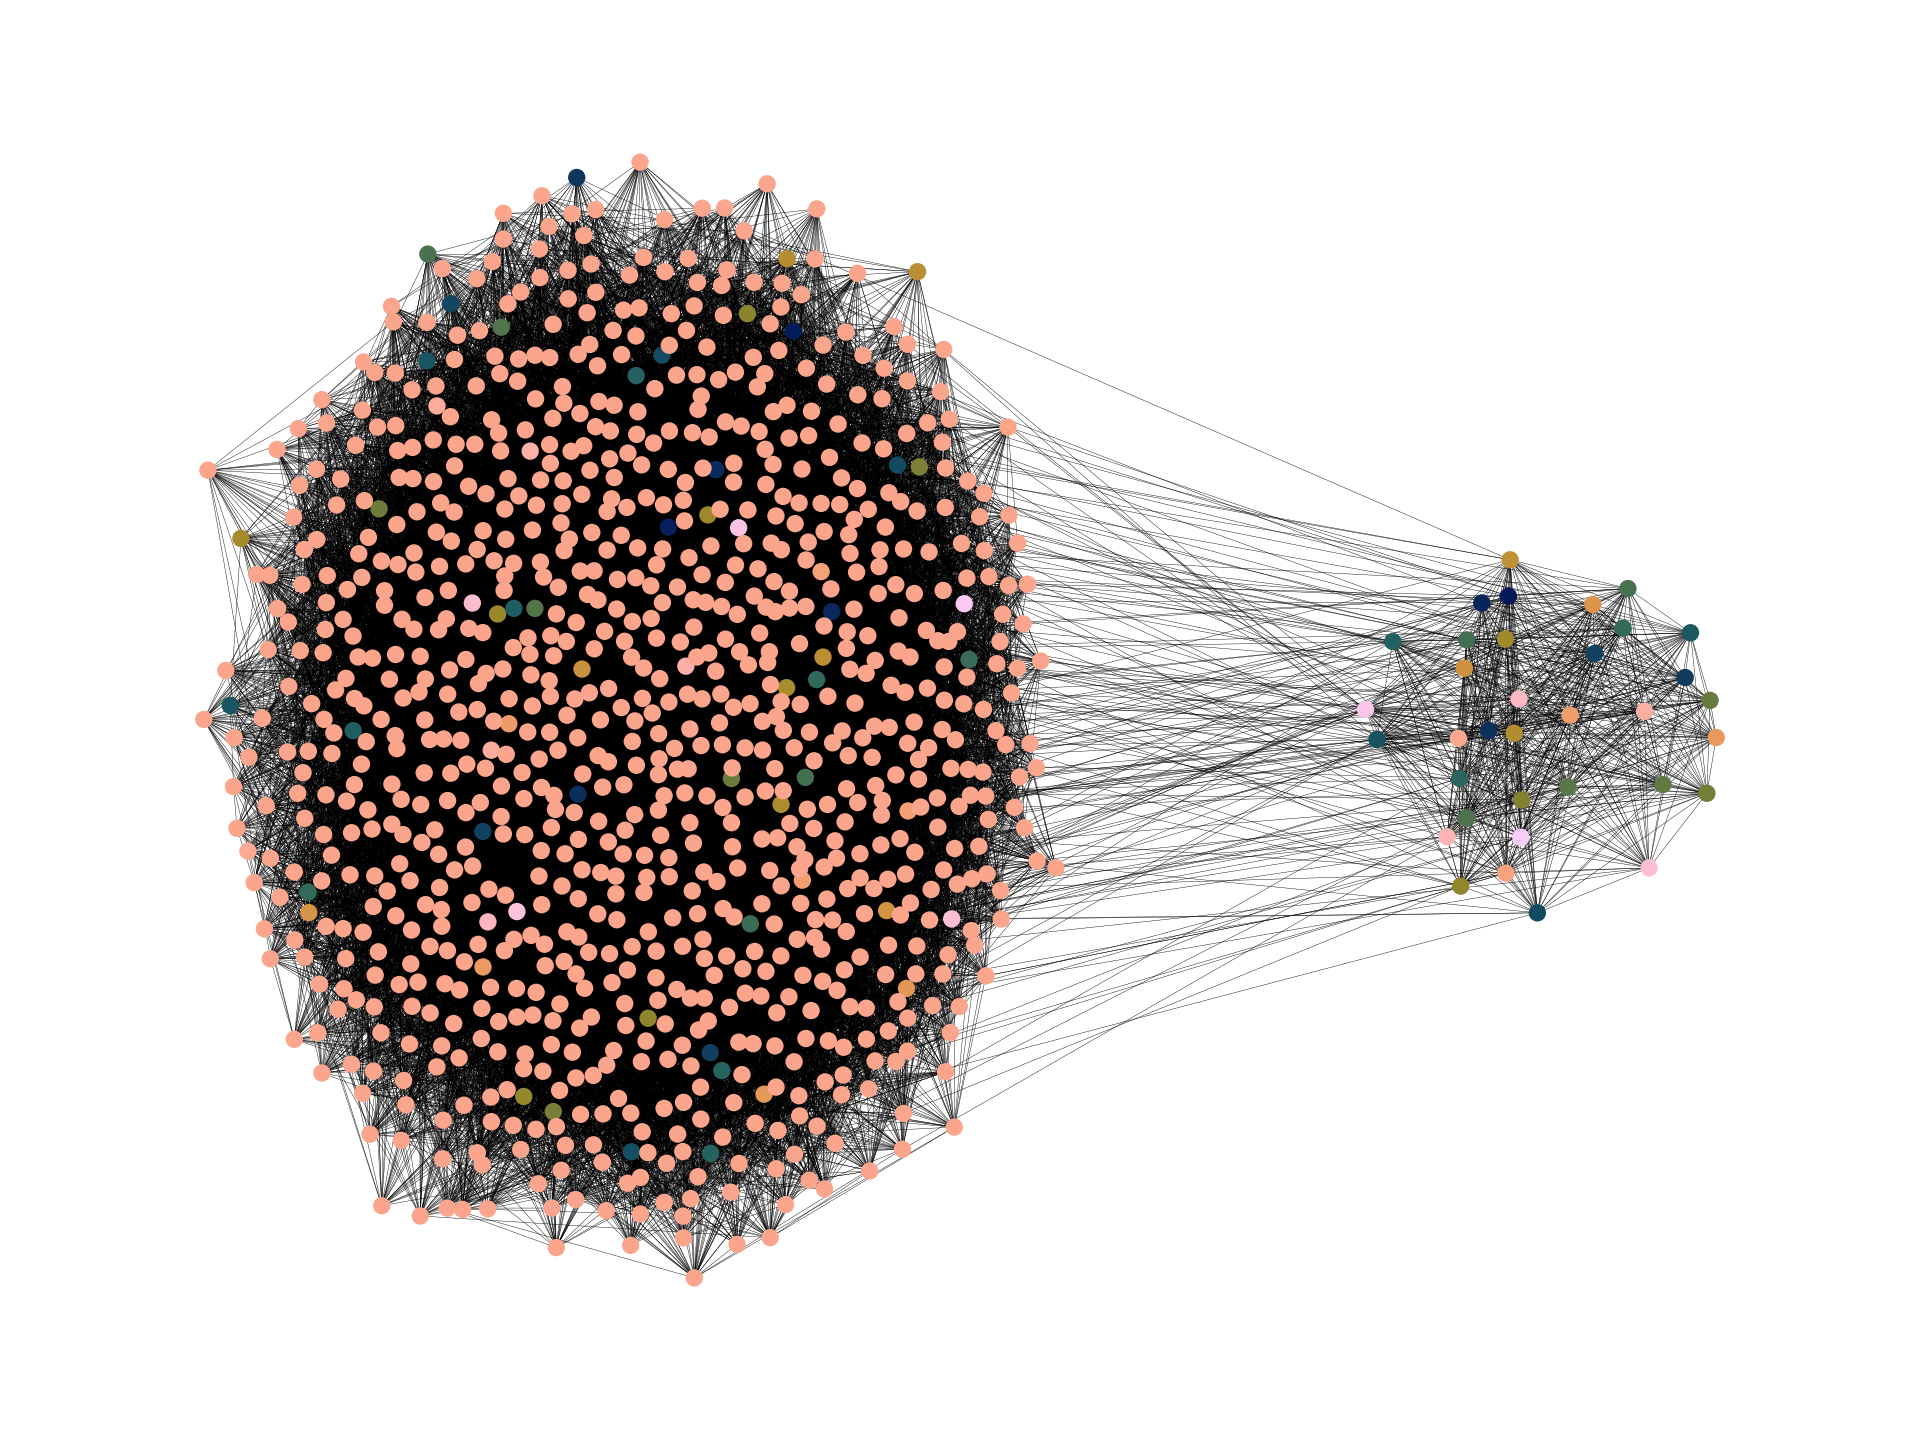
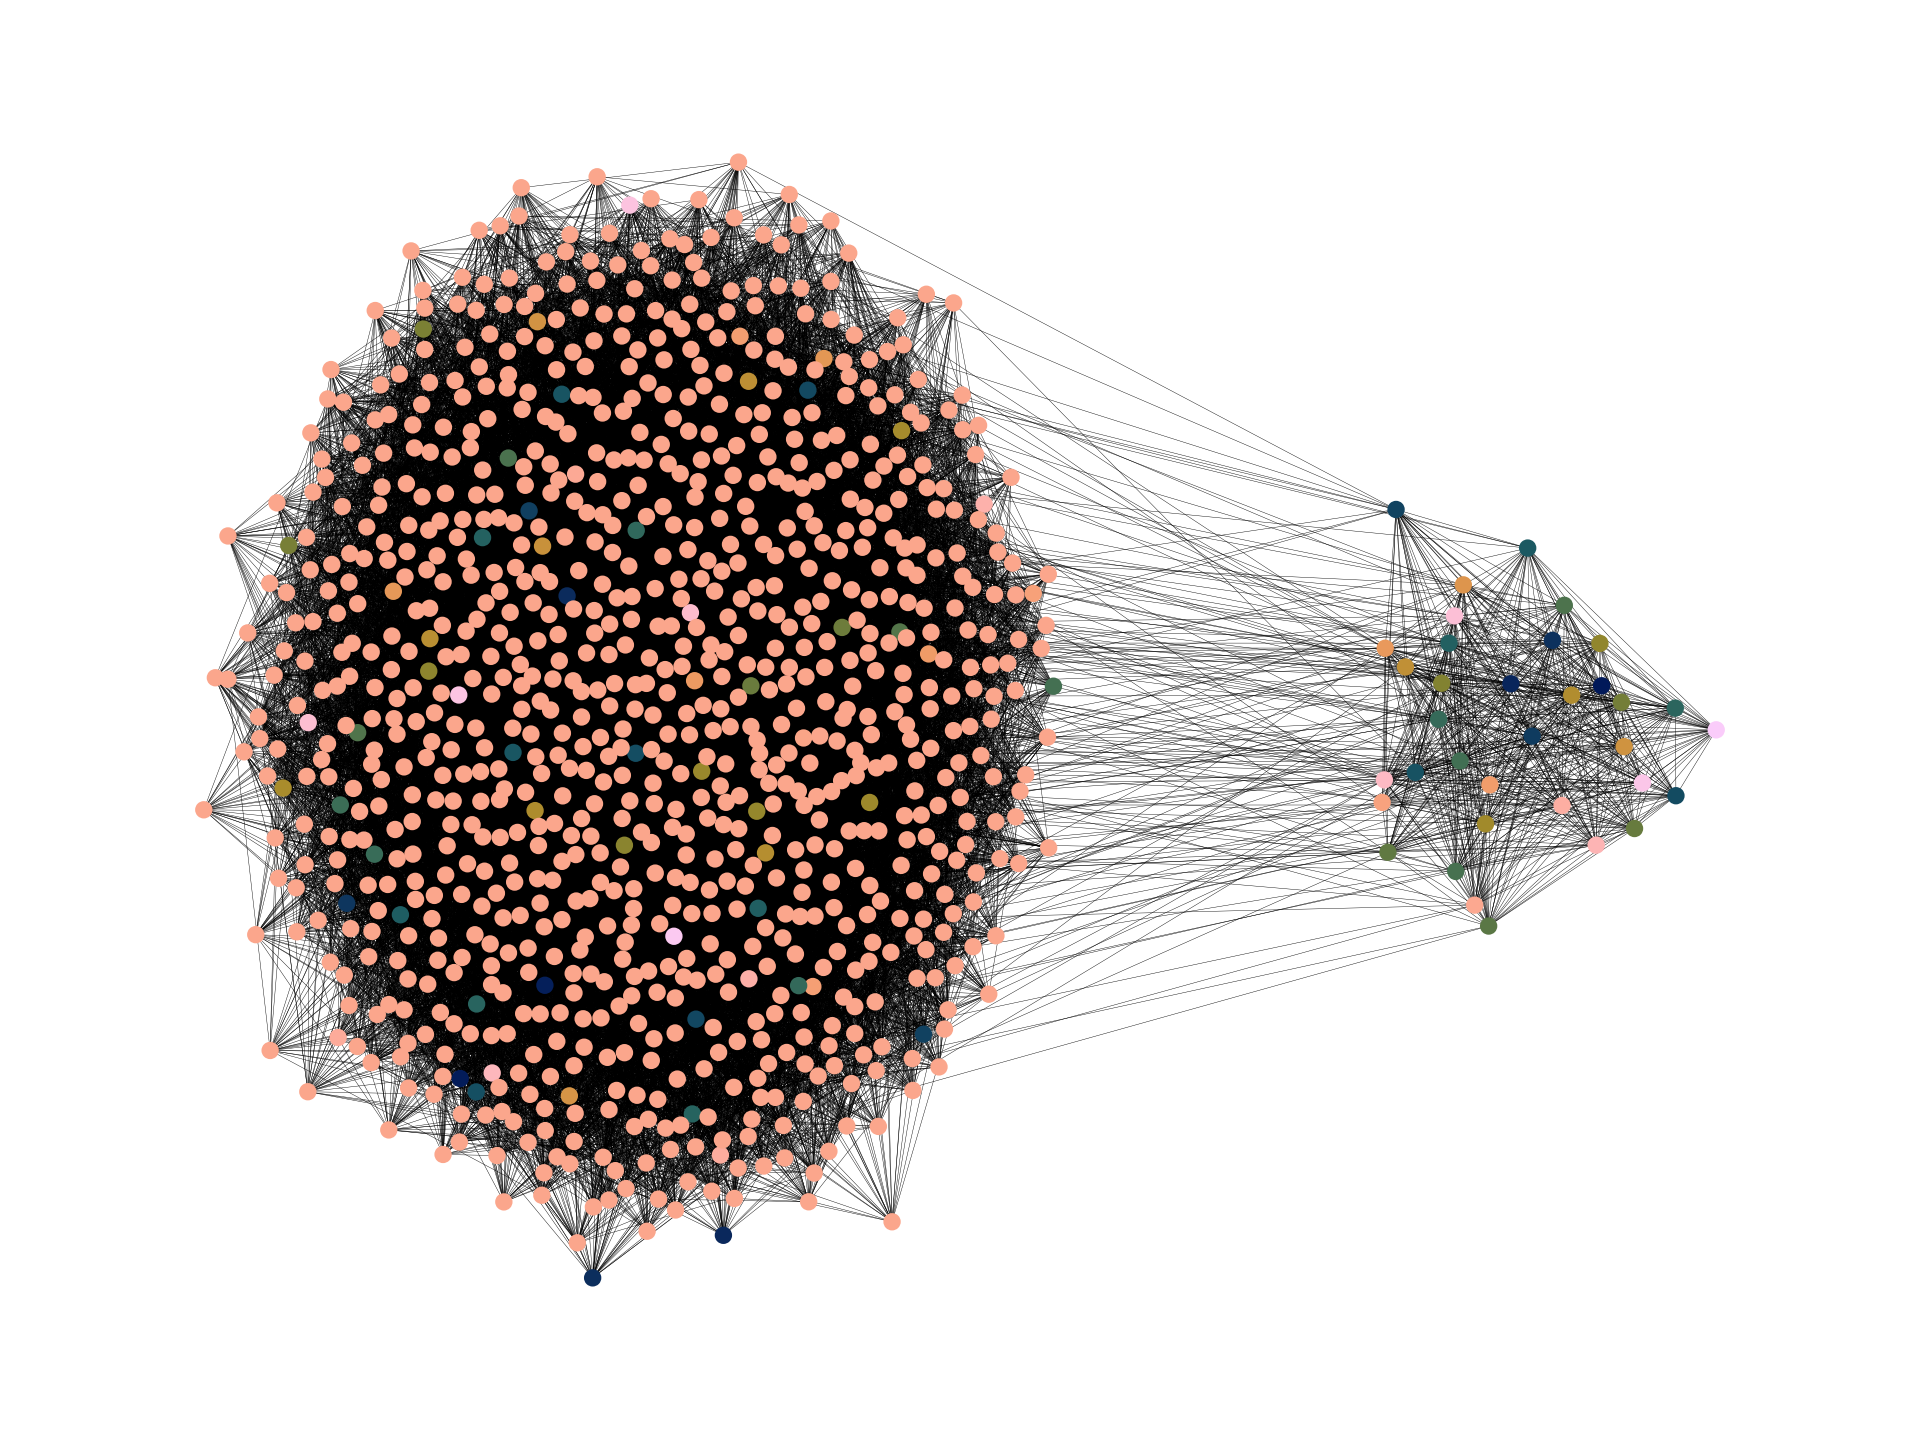
new graph

Changed region(s): [[0.0938, 0.0938, 0.9062, 0.9062]]

diff --git a/code/compare_graphs_d2d.py b/code/compare_graphs_d2d.py
@@ -1,0 +1,241 @@
+# Project:  CensorshipDissent
+# Filename: compare_graphs_d2d.py
+# Authors:  Joshua J. Daymude (jdaymude@asu.edu).
+
+"""
+This script uses the same engine (rule="d2d"), only changing the graph generation method (SBM/WS/BA), and repeatedly runs the simulation multiple times for different N_A fractions. It takes the mean and standard deviation of the final mean δ.
+"""
+
+import os
+import numpy as np
+import matplotlib.pyplot as plt
+import networkx as nx
+
+from engine import engine
+
+
+# ---------------------------
+# Graph generators (SBM / WS / BA)
+# ---------------------------
+def make_graph(kind: str, n: int, seed: int,
+               N_A: int,
+               ws_k: int = 6, ws_p: float = 0.10,
+               ba_m: int = 2,
+               sbm_P=None):
+    """
+    Create a connected-ish graph with node labels 0..N-1 to match engine's indexing style.
+    """
+    kind = kind.upper()
+
+    if kind == "WS":
+        # connected version avoids isolated nodes (d2d uses mean over neighbors)
+        return nx.connected_watts_strogatz_graph(n=n, k=ws_k, p=ws_p, seed=seed)
+
+    if kind == "BA":
+        return nx.barabasi_albert_graph(n=n, m=ba_m, seed=seed)
+
+    if kind == "SBM":
+        # Two communities aligned with "active vs non-active" just for community structure
+        sizes = [N_A, n - N_A]
+        P = sbm_P if sbm_P is not None else [[0.15, 0.01],
+                                             [0.01, 0.05]]
+        G = nx.stochastic_block_model(sizes, P, seed=seed, directed=False, selfloops=False, sparse=True)
+
+        # SBM may be disconnected -> take largest connected component
+        if not nx.is_connected(G):
+            largest_cc = max(nx.connected_components(G), key=len)
+            G = G.subgraph(largest_cc).copy()
+
+        # relabel to 0..N-1 to keep indexing safe in engine (acts[G[i]] style)
+        G = nx.convert_node_labels_to_integers(G, first_label=0)
+        return G
+
+    raise ValueError(f"Unknown kind: {kind}")
+
+
+# ---------------------------
+# Initialization (same idea as solidarity.py)
+# ---------------------------
+def init_population(rng: np.random.Generator, N: int, N_A: int):
+    """
+    Create deltas/betas with first N_A "active" having higher delta/beta.
+    """
+    deltas = np.append(
+        np.clip(rng.normal(0.9, 0.1, N_A), 0, 1),
+        np.clip(rng.normal(0.2, 0.1, N - N_A), 0, 1),
+    )
+    betas = np.append(np.repeat(2.0, N_A), np.repeat(0.75, N - N_A))
+    return deltas, betas
+
+
+# ---------------------------
+# One experiment: final mean delta for given params
+# ---------------------------
+def final_mean_delta(kind: str,
+                     n: int,
+                     N_A_frac: float,
+                     R: int = 50,
+                     runs: int = 10,
+                     base_seed: int = 0,
+                     # fixed engine params:
+                     rule: str = "d2d",
+                     w: float = 0.5,
+                     nu: float = 0.5,
+                     pi: str = "uniform",
+                     tau: float = 0.1, sigma_tau: float = 0.0,
+                     psi: float = 1.0, sigma_psi: float = 0.0,
+                     # graph params:
+                     ws_k: int = 6, ws_p: float = 0.10,
+                     ba_m: int = 2,
+                     sbm_P=None):
+    finals = []
+
+    for r in range(runs):
+        seed = base_seed + r
+        rng = np.random.default_rng(seed)
+
+        # build graph
+        N_A = max(1, int(N_A_frac * n))
+        G = make_graph(kind, n=n, seed=seed, N_A=N_A,
+                       ws_k=ws_k, ws_p=ws_p,
+                       ba_m=ba_m, sbm_P=sbm_P)
+
+        # graph size might change if we took largest CC
+        N = G.number_of_nodes()
+        N_A = max(1, int(N_A_frac * N))
+
+        # init conditions
+        deltas0, betas0 = init_population(rng, N, N_A)
+
+        delta_hist, beta_hist, act_hist = engine(
+            G, N=N, R=R, rule=rule, w=w,
+            deltas=deltas0, betas=betas0,
+            nu=nu, pi=pi, tau=tau, sigma_tau=sigma_tau, psi=psi, sigma_psi=sigma_psi,
+            rng=rng
+        )
+
+        # final mean delta (this is what your Figure 2 needs)
+        finals.append(float(delta_hist.mean(axis=0)[-1]))
+
+    return float(np.mean(finals)), float(np.std(finals))
+
+
+# ---------------------------
+# Sweep helpers
+# ---------------------------
+def sweep_NA_three_models(outdir="figs_final",
+                          n=500, R=50, runs=10,
+                          NA_fracs=None,
+                          # fixed model params:
+                          ws_k=6, ws_p=0.10,
+                          ba_m=2,
+                          sbm_P=None):
+    os.makedirs(outdir, exist_ok=True)
+    if NA_fracs is None:
+        NA_fracs = np.linspace(0.01, 0.15, 10)
+
+    models = ["SBM", "WS", "BA"]
+    results = {m: {"mean": [], "std": []} for m in models}
+
+    for frac in NA_fracs:
+        for m in models:
+            mean, std = final_mean_delta(
+                m, n=n, N_A_frac=float(frac),
+                R=R, runs=runs,
+                ws_k=ws_k, ws_p=ws_p,
+                ba_m=ba_m,
+                sbm_P=sbm_P
+            )
+            results[m]["mean"].append(mean)
+            results[m]["std"].append(std)
+
+    # plot (Figure 2A)
+    plt.figure(dpi=200)
+    for m in models:
+        y = np.array(results[m]["mean"])
+        yerr = np.array(results[m]["std"])
+        plt.errorbar(NA_fracs, y, yerr=yerr, marker="o", capsize=3, label=m)
+
+    plt.xlabel("N_A fraction")
+    plt.ylabel("Final mean delta (d2d)")
+    plt.title("Final mean delta vs N_A (SBM vs WS vs BA)")
+    plt.grid(True)
+    plt.legend()
+    outpath = os.path.join(outdir, "final_vs_NA_three_models.png")
+    plt.savefig(outpath, bbox_inches="tight")
+    plt.close()
+
+    print("Saved:", outpath)
+    return results
+
+
+# Optional: WS p sweep (Figure 2B)
+def sweep_WS_p(outdir="figs_final",
+               n=500, R=50, runs=10,
+               NA_frac=0.035,
+               ws_k=6,
+               ps=None):
+    os.makedirs(outdir, exist_ok=True)
+    if ps is None:
+        ps = [0.0, 0.01, 0.05, 0.1, 0.5, 1.0]
+
+    means, stds = [], []
+    for p in ps:
+        mean, std = final_mean_delta("WS", n=n, N_A_frac=NA_frac, R=R, runs=runs, ws_k=ws_k, ws_p=float(p))
+        means.append(mean); stds.append(std)
+
+    plt.figure(dpi=200)
+    plt.errorbar(ps, means, yerr=stds, marker="o", capsize=3)
+    plt.xlabel("p (rewiring probability)")
+    plt.ylabel("Final mean delta (d2d)")
+    plt.title(f"WS: Final mean delta vs p (k={ws_k}, N_A={NA_frac})")
+    plt.grid(True)
+    outpath = os.path.join(outdir, "final_vs_p_WS.png")
+    plt.savefig(outpath, bbox_inches="tight")
+    plt.close()
+
+    print("Saved:", outpath)
+
+
+# Optional: BA m sweep (Figure 2C)
+def sweep_BA_m(outdir="figs_final",
+               n=500, R=50, runs=10,
+               NA_frac=0.035,
+               ms=None):
+    os.makedirs(outdir, exist_ok=True)
+    if ms is None:
+        ms = [1, 2, 4, 8]
+
+    means, stds = [], []
+    for m in ms:
+        mean, std = final_mean_delta("BA", n=n, N_A_frac=NA_frac, R=R, runs=runs, ba_m=int(m))
+        means.append(mean); stds.append(std)
+
+    plt.figure(dpi=200)
+    plt.errorbar(ms, means, yerr=stds, marker="o", capsize=3)
+    plt.xlabel("m (edges per new node)")
+    plt.ylabel("Final mean delta (d2d)")
+    plt.title(f"BA: Final mean delta vs m (N_A={NA_frac})")
+    plt.grid(True)
+    outpath = os.path.join(outdir, "final_vs_m_BA.png")
+    plt.savefig(outpath, bbox_inches="tight")
+    plt.close()
+
+    print("Saved:", outpath)
+
+
+if __name__ == "__main__":
+    # Main deliverable: Figure 2A (final vs N_A with three models)
+    sweep_NA_three_models(
+        outdir="figs_final",
+        n=500, R=50, runs=10,
+        NA_fracs=np.linspace(0.01, 0.15, 10),
+        ws_k=6, ws_p=0.10,
+        ba_m=2,
+        sbm_P=[[0.15, 0.01],
+               [0.01, 0.05]]
+    )
+
+    # Uncomment if you also want Figure 2B / 2C:
+sweep_WS_p(outdir="figs_final", n=500, R=50, runs=10, NA_frac=0.035, ws_k=6)
+sweep_BA_m(outdir="figs_final", n=500, R=50, runs=10, NA_frac=0.035)

diff --git a/code/solidarity.py b/code/solidarity.py
@@ -36,7 +36,7 @@ if __name__ == '__main__':
 
     # Run simulation.
     deltas, betas, acts = engine(
-        G, N=N, R=R, rule='d2max', w=1, deltas=deltas, betas=betas, nu=0.5,
+        G, N=N, R=R, rule='d2d', w=1, deltas=deltas, betas=betas, nu=0.5,
         pi='uniform', tau=0.1, sigma_tau=0.0, psi=1, sigma_psi=0.0, rng=rng)
 
     # Plot the network.
